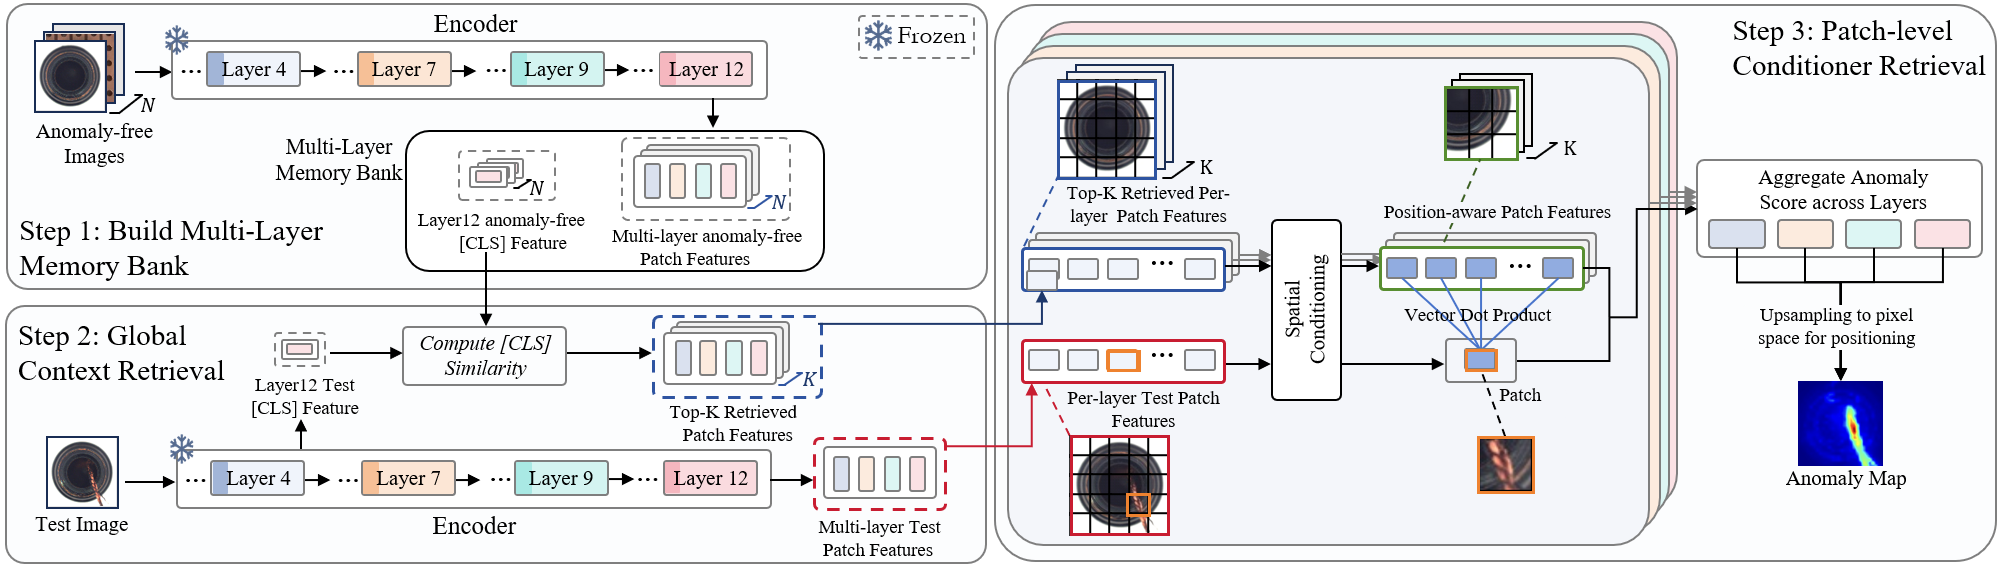
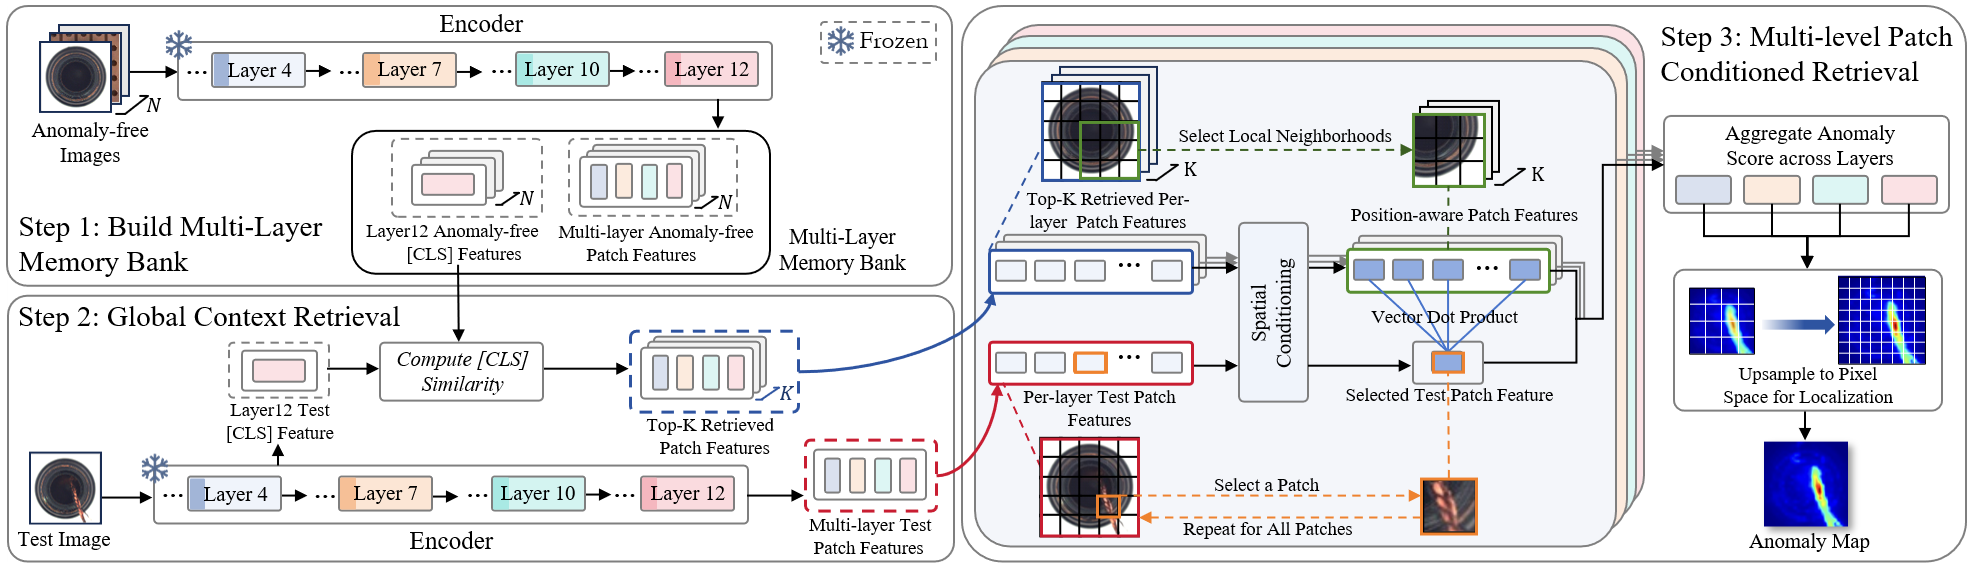
Initial commit

Changed region(s): [[0.0, 0.0, 1.0, 1.0]]

diff --git a/prepare_data/prepare_3dadam.py b/prepare_data/prepare_3dadam.py
@@ -1,0 +1,118 @@
+import argparse
+import os
+import shutil
+from pathlib import Path
+
+import numpy as np
+from PIL import Image
+
+
+def _mkdirs_if_not_exists(path: Path):
+    if not path.exists():
+        path.mkdir(parents=True, exist_ok=True)
+
+
+def _copy_images(src_dir: Path, dst_dir: Path):
+    if not src_dir.exists():
+        return
+
+    _mkdirs_if_not_exists(dst_dir)
+    exts = [".png", ".jpg", ".jpeg", ".tif", ".tiff", ".bmp"]
+
+    for p in src_dir.iterdir():
+        if p.is_file() and p.suffix.lower() in exts:
+            shutil.copy2(p, dst_dir / p.name)
+
+
+def _copy_masks(src_dir: Path, dst_dir: Path):
+    if not src_dir.exists():
+        return
+
+    _mkdirs_if_not_exists(dst_dir)
+    exts = [".png", ".jpg", ".jpeg", ".tif", ".tiff", ".bmp"]
+
+    for p in src_dir.iterdir():
+        if not (p.is_file() and p.suffix.lower() in exts):
+            continue
+
+        dst_path = dst_dir / p.name
+        shutil.copy2(p, dst_path)
+
+
+def convert_category(src_root: Path, dst_root: Path, category: str):
+    src_cat = src_root / category
+
+    if not (src_cat / "train").is_dir():
+        return
+
+    dst_cat = dst_root / category
+
+    # train/good
+    train_good_src = src_cat / "train" / "good" / "rgb"
+    train_good_dst = dst_cat / "train" / "good"
+    _copy_images(train_good_src, train_good_dst)
+
+    # validation/good -> test/good
+    val_good_src = src_cat / "validation" / "good" / "rgb"
+    test_good_dst = dst_cat / "test" / "good"
+    _copy_images(val_good_src, test_good_dst)
+
+    # test defects
+    test_root = src_cat / "test"
+    if not test_root.is_dir():
+        return
+
+    for defect_name in sorted(os.listdir(test_root)):
+        defect_dir = test_root / defect_name
+        if not defect_dir.is_dir():
+            continue
+
+        rgb_dir = defect_dir / "rgb"
+        gt_dir = defect_dir / "ground_truth"
+
+        test_defect_dst = dst_cat / "test" / defect_name
+        gt_defect_dst = dst_cat / "ground_truth" / defect_name
+
+        _copy_images(rgb_dir, test_defect_dst)
+        _copy_masks(gt_dir, gt_defect_dst)
+
+
+def main():
+    parser = argparse.ArgumentParser(
+        description="Convert 3D-ADAM_anomalib dataset to MVTec-style format"
+    )
+    parser.add_argument(
+        "--data-folder",
+        default="/path/to/3D-ADAM_anomalib",
+        type=str,
+        help="path to original 3D-ADAM_anomalib dataset",
+    )
+    parser.add_argument(
+        "--save-folder",
+        default="/path/to/mvtec-style-dataset",
+        type=str,
+        help="target path to save the MVTec-style dataset",
+    )
+
+    config = parser.parse_args()
+
+    src_root = Path(config.data_folder)
+    dst_root = Path(config.save_folder)
+
+    _mkdirs_if_not_exists(dst_root)
+
+    for name in sorted(os.listdir(src_root)):
+        cat_path = src_root / name
+        if not cat_path.is_dir():
+            continue
+        if not (cat_path / "train").is_dir():
+            continue
+
+        print(f"Converting category: {name}")
+        convert_category(src_root, dst_root, name)
+
+    print("Conversion finished.")
+
+
+if __name__ == "__main__":
+    main()

diff --git a/README.md b/README.md
@@ -89,11 +89,37 @@ Download and unzip `realiad_1024` and `realiad_jsons` in `../Real-IAD`.
         |-- realiad_jsons_fuiad_0.0
         |-- ....
 ```
+### 📁 3D-ADAM
+The 3D-ADAM dataset can be found publicly available in our [HuggingFace](https://huggingface.co/datasets/pmchard/3D-ADAM_anomalib) repository.
+
+Ignore the **/xyz/** since we only use the RGB modality and download the dataset to `../3D-ADAM_anomalib`
+```
+python ./prepare_data/prepare_3dadam.py --data-folder ../3D-ADAM_anomalib --save-folder ../3D-ADAM
+```
+`../3D-ADAM` will be like:
+```
+|-- 3D-ADAM
+    |-- 1m1
+        |-- ground_truth
+        |-- test
+            |-- good
+            |-- <defect_1>
+            |-- <defect_2>
+            |-- ...
+        |-- train
+            |-- good
+    |-- 1m2
+    |-- 1m3
+    |-- 2m1
+    |-- 2m2h
+    |-- 2m2m
+    |-- 3m1
+    |-- ...
+```
 
 ## ⬇ Download pretrained Encoder
 
    - [`DINOv3 ViT-B/16`](https://ai.meta.com/resources/models-and-libraries/dinov3-downloads/): #parameters: 86M
-
 
 
 ## 🎮 Multi-class Anomaly Detection 
@@ -123,7 +149,7 @@ python build_bank_multilayer.py \
 
 Using RAD as a detecter.
 ```bash
-python rad_mvtec_visa.py \
+python rad_mvtec_visa_3dadam.py \
     --data_path ../mvtec_anomaly_detection \
     --bank_path ./bank/mvtec_dinov3_vitb16_multilayer36911_448_bank.pth \
     --encoder_name dinov3_vitb16 \
@@ -174,7 +200,7 @@ python build_bank_multilayer.py \
 
 Using RAD as a detecter.
 ```bash
-python rad_mvtec_visa.py \
+python rad_mvtec_visa_3dadam.py \
     --data_path ../VisA_pytorch/1cls \
     --bank_path ./bank/visa_dinov3_vitb16_multilayer36911_448_bank.pth \
     --encoder_name dinov3_vitb16 \
@@ -217,7 +243,7 @@ python build_realiad_bank_multilayer.py \
 
 Using RAD as a detecter.
 ```bash
-python eval_realiad_multilayer_knn.py \
+python rad_real_iad.py \
   --data_path ../Real-IAD \
   --bank_path ./bank/realiad_dinov3_vitb16_multilayer36911_448_bank.pth \
   --encoder_name dinov3_vitb16 \
@@ -239,6 +265,56 @@ python eval_realiad_multilayer_knn.py \
 - `vis_max` limits the maximum number of test samples that will be visualized per class.
 - `use_positional_bank` enables the position-aware patch memory bank so that each patch only compares with patches from nearby spatial locations rather than all positions.
 - `pos_radius` controls the spatial neighborhood radius (in patch units) used for the position-aware patch memory bank around each query patch.
+
+### 3D-ADAM
+First build multi-layer anomaly-free memory bank.
+```bash
+python build_bank_multilayer.py \
+    --data_path ../3D-ADAM \
+--item_list 1m1 1m2 1m3 2m1 2m2h 2m2m \
+           3m1 3m2 3m2c 4m1 4m2 4m2c \
+           gripper_closed gripper_open helicalgear1 helicalgear2 \
+           rackgear spiralgear spurgear tapa2m1 tapa3m1 tapa4m1 tapatbb \
+    --encoder_name dinov3_vitb16 \
+    --encoder_weight ../weights/dinov3_vitb16_pretrain_lvd1689m-73cec8be.pth \
+    --image_size 512 \
+    --crop_size 448 \
+    --batch_size 32 \
+    --num_workers 4 \
+    --layer_idx_list 3 6 9 11 \
+    --bank_path ./bank/3dadam_dinov3_vitb16_multilayer36911_448_bank.pth
+```
+- `data_path` is the folder dir that stores the datasets.
+- `item_list` specifics the item classes of the datasets.
+- `bank_path` is the folder dir that stores the bank.
+- `layer_idx_list`  specifics the layer index (zero-based) of the encoder we extract features. 
+
+
+Using RAD as a detecter.
+```bash
+python rad_mvtec_visa_3dadam.py \
+    --data_path ../3D-ADAM \
+    --bank_path ./bank/3dadam_dinov3_vitb16_multilayer36911_448_bank.pth \
+    --encoder_name dinov3_vitb16 \
+    --encoder_weight ../weights/dinov3_vitb16_pretrain_lvd1689m-73cec8be.pth \
+    --save_dir ./saved_results_patch_knn \
+    --save_name 3dadam_patch_knn_multilayer_36911_448 \
+    --k_image 48 \
+    --resize_mask 256 \
+    --max_ratio 0.01 \
+    --vis_max 8 \
+    --use_positional_bank \
+    --pos_radius 1
+```
+- `data_path` is the folder dir that stores the datasets.
+- `save_dir` specifies the directory where logs, metrics, and visualization results are saved.
+- `k_image` sets how many nearest-neighbor training images are used to build the local patch memory bank for each test image. 
+- `resize_mask` sets the spatial resolution to which anomaly maps and ground-truth masks are resized for evaluation and visualization.
+- `max_ratio` determines what fraction of the highest anomaly pixels are pooled to compute the image-level anomaly score.
+- `vis_max` limits the maximum number of test samples that will be visualized per class.
+- `use_positional_bank` enables the position-aware patch memory bank so that each patch only compares with patches from nearby spatial locations rather than all positions.
+- `pos_radius` controls the spatial neighborhood radius (in patch units) used for the position-aware patch memory bank around each query patch.
+- `item_list` specifics the item classes of the datasets.
 
 ## 🙏 Acknowledgement
 
